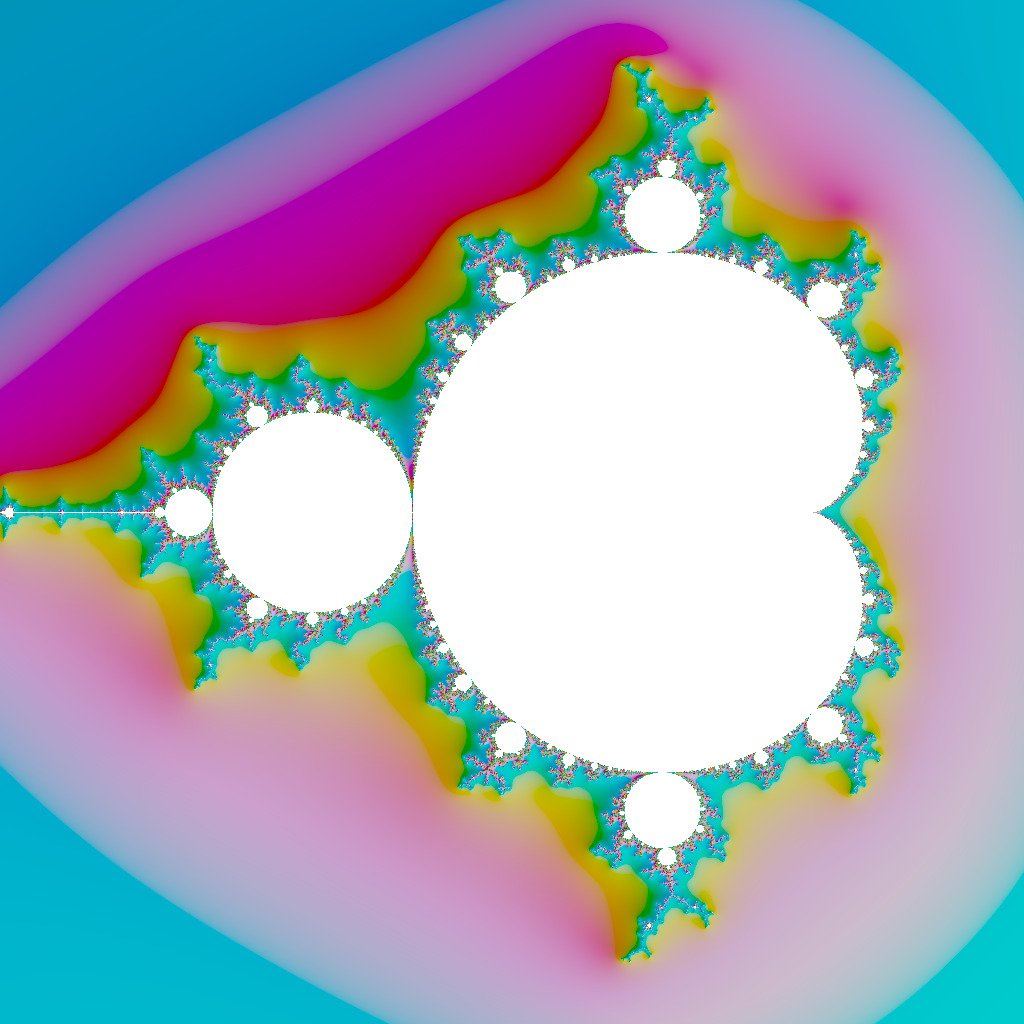
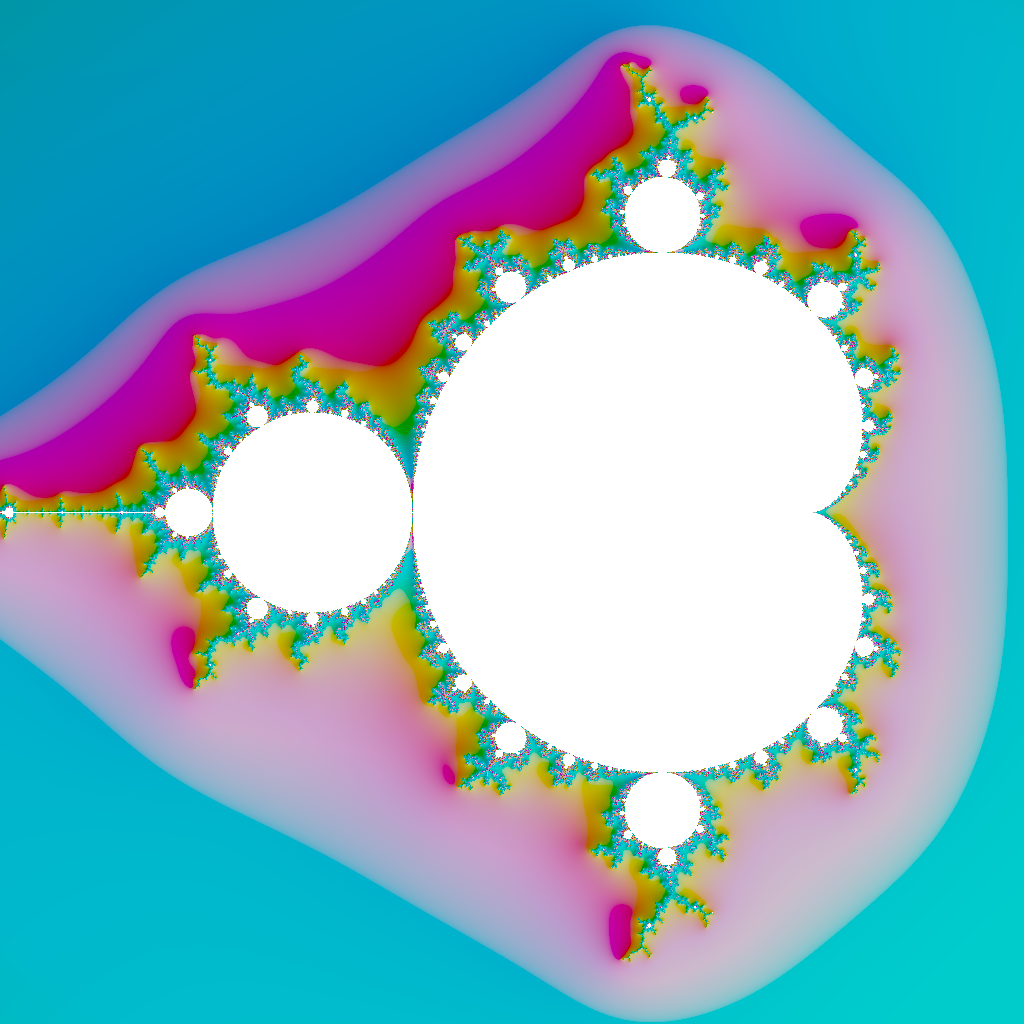
parametrize some of the ... parameters

diff --git a/demo/main.go b/demo/main.go
@@ -28,6 +28,11 @@ const maxAlpha = 65535
 func Main() int {
 	fCpuprofile := flag.String("profile-cpu", "", "write cpu profile to `file`")
 	fMemprofile := flag.String("profile-mem", "", "write memory profile to `file`")
+	fHueFreq := flag.Float64("hue-freq", 0.35, "hue frequency multiplier for coloring (higher means more color cycles)")
+	fChroma := flag.Float64("chroma", 80, "chroma (saturation) for coloring")
+	fShading := flag.Float64("shading", 70, "range for shading lightness (0 = no shading, 100 = full range from black to white)")
+	fLightAngle := flag.Float64("light-angle", 45, "light angle in degrees for shading (azimuth)")
+	fLightHeight := flag.Float64("light-height", 1.5, "light height for shading (elevation, higher means more light from above)")
 	cli.Main()
 	if *fCpuprofile != "" {
 		f, err := os.Create(*fCpuprofile)
@@ -41,7 +46,7 @@ func Main() int {
 		log.Infof("Writing cpu profile to %s", *fCpuprofile)
 		defer pprof.StopCPUProfile()
 	}
-	res := GenerateDemoImage()
+	res := GenerateDemoImage(*fHueFreq, *fChroma, *fShading, *fLightAngle, *fLightHeight)
 	if *fMemprofile != "" {
 		f, errMP := os.Create(*fMemprofile)
 		if errMP != nil {
@@ -123,31 +128,24 @@ func lchToRGBA64(l, c, h float64) color.NRGBA64 {
 // GenerateDemoImage generates a Mandelbrot set using exponential cyclic
 // coloring in CIE LCH color space with derivative-based shading.
 // See https://en.wikipedia.org/wiki/Plotting_algorithms_for_the_Mandelbrot_set
-func GenerateDemoImage() int {
+func GenerateDemoImage(hueFreq, chr, shading, lightAngle, lightHeight float64) int {
 	// --- Configuration ---
 	width := 1024
 	height := 1024
 	maxIterations := 2048
 	scale := 0.0025 // Controls the zoom level (lower is zoomed in)
-
 	// Center of the Mandelbrot set (approximate)
 	centerX := -0.5
 	centerY := 0.0
-
-	bailoutSq := 1e12 // bailout radius² (radius = 1e6, needed for smooth coloring)
-
+	// bailout radius² (radius = 1e6, needed for smooth coloring)
+	bailoutSq := 1e12
 	// Shading: light direction for normal-mapped shading via dz/dc
-	lightAngle := 45.0 * math.Pi / 180 // azimuth
-	lightHeight := 1.5                 // elevation
+	lightAngle *= math.Pi / 180 // azimuth
 	vx := math.Cos(lightAngle)
 	vy := math.Sin(lightAngle)
 
-	// Create an empty image
 	img := image.NewNRGBA64(image.Rect(0, 0, width, height))
-
-	// --- Generate Mandelbrot ---
 	bar := progressbar.NewBar()
-
 	for y := range height {
 		cIm := (float64(y)-float64(height)/2)*scale + centerY
 		for x := range width {
@@ -175,7 +173,7 @@ func GenerateDemoImage() int {
 			}
 			// Exponential cyclic hue: log₂ compresses iteration bands
 			// so color cycles are evenly spaced on a log scale
-			h := math.Mod(360*0.4*math.Log2(mu+1), 360)
+			h := math.Mod(360*hueFreq*math.Log2(mu+1), 360)
 			// Shading from orbit derivative (normal mapping)
 			shade := 1.0
 			if dzAbs := math.Hypot(real(dz), imag(dz)); dzAbs > 0 {
@@ -188,8 +186,7 @@ func GenerateDemoImage() int {
 					}
 				}
 			}
-			l := 20 + 70*shade // lightness: dark (20) → bright (90)
-			chr := 80.0        // chroma (saturation)
+			l := 20 + shading*shade // lightness: dark → bright based on shading range
 			img.SetNRGBA64(x, y, lchToRGBA64(l, chr, h))
 		}
 		bar.Progress(100. * float64(y) / float64(height))
